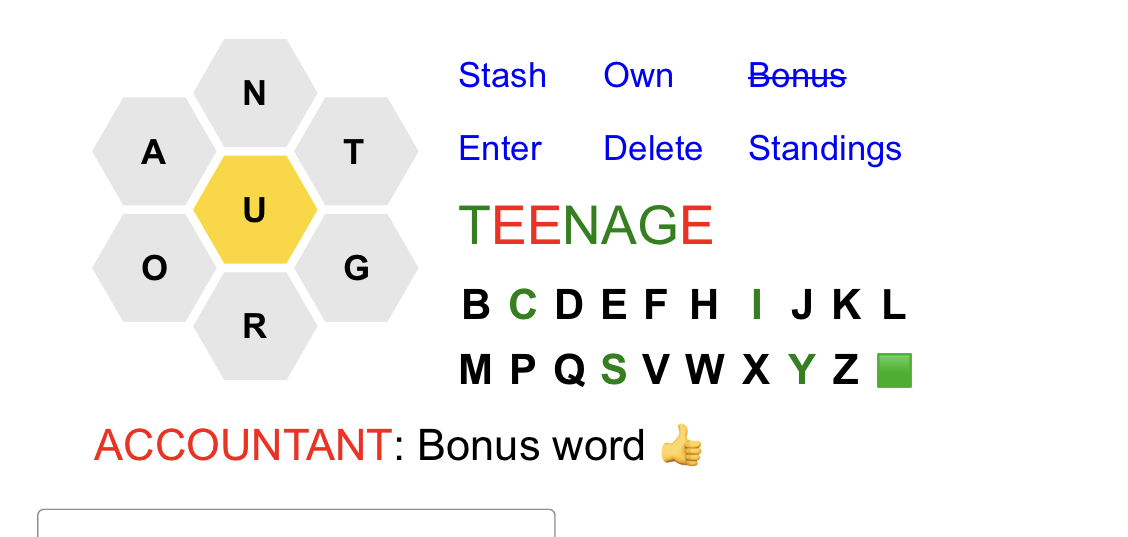
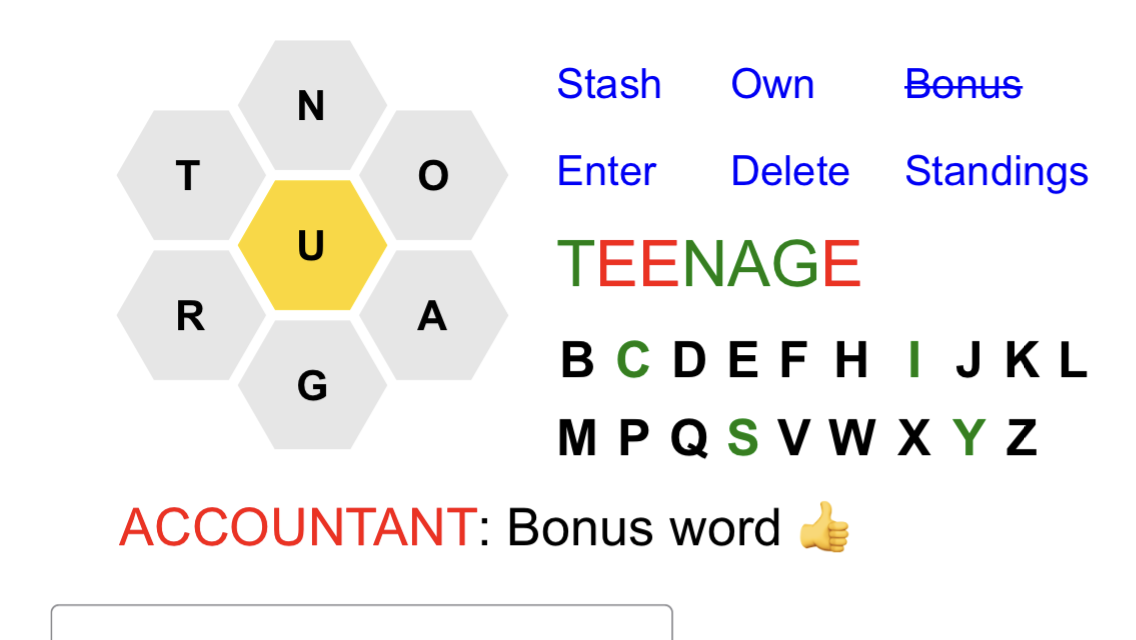
no green square in bonus mode

diff --git a/nytbee/help.html b/nytbee/help.html
@@ -964,7 +964,7 @@ The command <span class=cmd>BN</span> can help with this.
 When it is toggled ON you are in Bonus Mode and 
 the mobile display will look like this:
 <p>
-<img src=pics/teenage.png width=800 border=1>
+<img src=pics/teenage.png width=750 border=1>
 <p>
 The 19 (26-7=19) additional letters are put in a table.
 Tap on them to append to the word.
@@ -983,8 +983,6 @@ and
 <li><s><span class=cmd>Bonus</span></s> will toggle OUT of Bonus Mode.
 <li><span class=cmd>Standings</span> will issue the <span class=cmd>CW</span> command for you (see <a href=#competition>below</a>).
 </ul>
-The letter table also has a green square &#129001; at the end
-that will insert a space.  This is useful for issuing various commands.
 <p>
 When NOT on a mobile phone the <span class=cmd>BN</span> command 
 will put the 19 additional letters above the list of Bonus words.
@@ -1843,8 +1841,8 @@ It is now added to daily at 3:00 a.m. EST by extracting the words
 from the New York Times site.  There are daily puzzles going all the way
 back to May 9, 2018.   There are now
 <!-- Do NOT mess with the next two lines - see cgi-bin/nytbee_list.pl! -->
-2132 puzzles with
-a total of 10010 different words!
+2138 puzzles with
+a total of 10026 different words!
 <p>
 Which puzzles from the large archive to play?
 You can get one at random with the <span class=cmd>NR</span> command or you could
